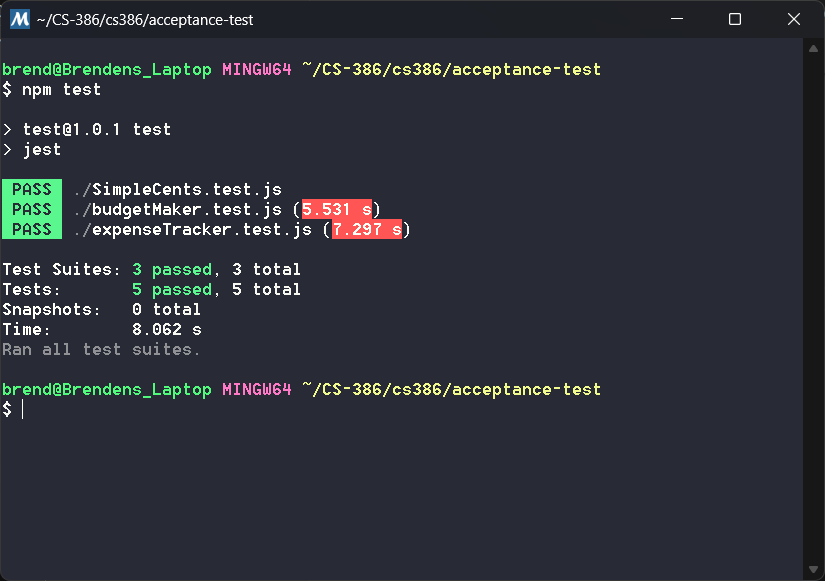
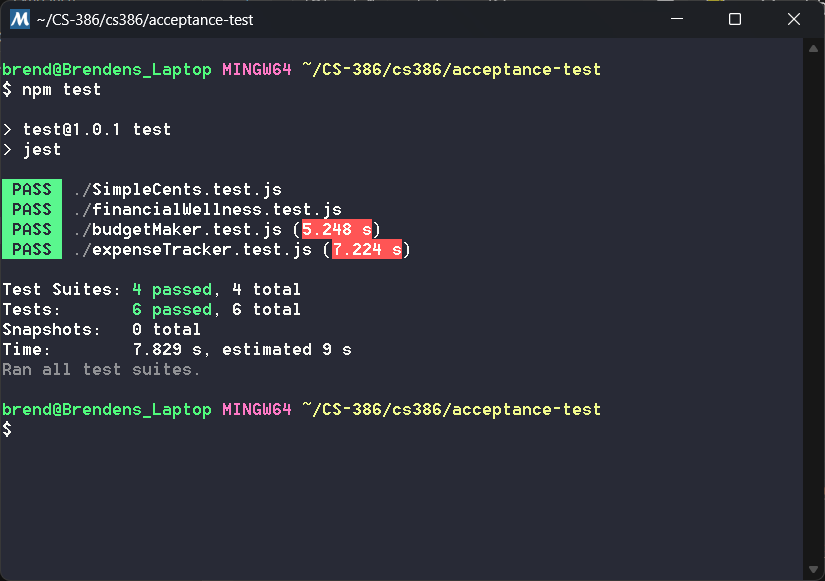
added the documentation for the 4th acceptance test.

Changed region(s): [[0.0, 0.3408, 0.7273, 0.7435], [0.2727, 0.5886, 0.4242, 0.6196], [0.303, 0.5267, 0.3636, 0.5577]]

diff --git a/cs386/deliverables/deliverable7/deliverable7.md b/cs386/deliverables/deliverable7/deliverable7.md
@@ -79,6 +79,16 @@ Link to test: https://github.com/brenden-matteson/cs386/tree/main/acceptance-tes
 
 ![Acceptance test 3](acceptance-test3.png)
 
+**Test Case Example 4:**
+
+The fourth test case is one acceptance test on the financial wellness page of SimpleCents.
+
+The test uses nightmore to navigate to the financial wellness page, then it mimics the user clicking one of the navigation links on the side bar navigation. Jest then checks to make sure that the url that the link navigates to is the correct section.
+
+Link to test: https://github.com/brenden-matteson/cs386/tree/main/acceptance-test/financialWellness.test.js
+
+![Acceptance test 4](acceptance-test4.png)
+
 **Results:**
 
 ![Results](acceptance-results.png)
